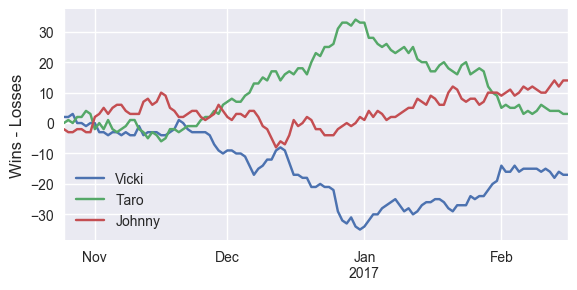
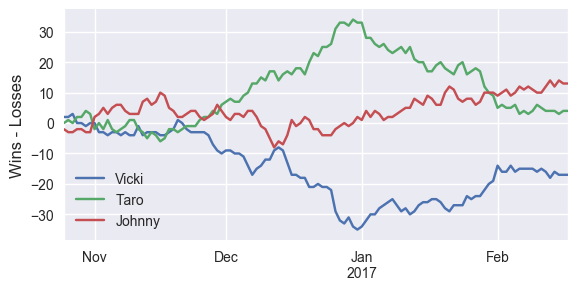
update 2/17

diff --git a/index.html b/index.html
@@ -35,7 +35,7 @@
 <a id="the-bet-is-on" class="anchor" href="#the-bet-is-on" aria-hidden="true"><span aria-hidden="true" class="octicon octicon-link"></span></a>The bet is on.</h1>
 
 <h1>
-<a id="current-winner-of-2016-17-season" class="anchor" href="#current-winner-of-2016-17-season" aria-hidden="true"><span aria-hidden="true" class="octicon octicon-link"></span></a>Current winner of 2016-17 Season (as of 2/16/2017):</h1>
+<a id="current-winner-of-2016-17-season" class="anchor" href="#current-winner-of-2016-17-season" aria-hidden="true"><span aria-hidden="true" class="octicon octicon-link"></span></a>Current winner of 2016-17 Season (as of 2/17/2017):</h1>
 
 <h2>
 <a id="none" class="anchor" href="#none" aria-hidden="true"><span aria-hidden="true" class="octicon octicon-link"></span></a><strong>Johnny</strong>
@@ -45,22 +45,22 @@
 <a id="johnny" class="anchor" href="Johnny.html" aria-hidden="true"><span aria-hidden="true" class="octicon octicon-link"></span>Johnny</a></h2>
 
 <p>Wins: 290<br>
-Losses: 276<br>
-Remaining wins available: 221</p>
+Losses: 277<br>
+Remaining wins available: 220</p>
 
 <h2>
 <a id="taro" class="anchor" href="Taro.html" aria-hidden="true"><span aria-hidden="true" class="octicon octicon-link"></span>Taro</a></h2>
 
-<p>Wins: 284<br>
+<p>Wins: 285<br>
 Losses: 281<br>
-Remaining wins available: 221</p>
+Remaining wins available: 220</p>
 
 <h2>
 <a id="vicki" class="anchor" href="Vicki.html" aria-hidden="true"><span aria-hidden="true" class="octicon octicon-link"></span>Vicki</a></h2>
 
-<p>Wins: 273<br>
-Losses: 290<br>
-Remaining wins available: 219</p>
+<p>Wins: 274<br>
+Losses: 291<br>
+Remaining wins available: 217</p>
 
 <img src='pythoncode/win_percent.png' alt='Winning Percentage Over Time'>
 <h1>

diff --git a/Vicki.html b/Vicki.html
@@ -35,9 +35,9 @@
 
 <h2>Vicki</h2>
 
-<p>Wins: 273<br>
-Losses: 290<br>
-Remaining wins available: 219</p>
+<p>Wins: 274<br>
+Losses: 291<br>
+Remaining wins available: 217</p>
 
 <h2> Current teams </h2>
 <table border="1">
@@ -73,9 +73,9 @@ Remaining wins available: 219</p>
 </tr>
 <tr>
 <td>Bulls</td>
-<td>27</td>
+<td>28</td>
 <td>29</td>
-<td>26</td>
+<td>25</td>
 </tr>
 <tr>
 <td>76ers</td>
@@ -104,8 +104,8 @@ Remaining wins available: 219</p>
 <tr>
 <td>Pacers</td>
 <td>29</td>
-<td>27</td>
-<td>26</td>
+<td>28</td>
+<td>25</td>
 </tr>
 </table>
 

diff --git a/Taro.html b/Taro.html
@@ -35,9 +35,9 @@
 
 <h2>Taro</h2>
 
-<p>Wins: 284<br>
+<p>Wins: 285<br>
 Losses: 281<br>
-Remaining wins available: 221</p>
+Remaining wins available: 220</p>
 
 <h2> Current teams </h2>
 <table border="1">
@@ -91,9 +91,9 @@ Remaining wins available: 221</p>
 </tr>
 <tr>
 <td>Wizards</td>
-<td>33</td>
+<td>34</td>
 <td>21</td>
-<td>28</td>
+<td>27</td>
 </tr>
 <tr>
 <td>Kings</td>

diff --git a/Johnny.html b/Johnny.html
@@ -36,8 +36,8 @@
 <h2>Johnny</h2>
 
 <p>Wins: 290<br>
-Losses: 276<br>
-Remaining wins available: 221</p>
+Losses: 277<br>
+Remaining wins available: 220</p>
 
 <h2> Current teams </h2>
 <table border="1">
@@ -74,8 +74,8 @@ Remaining wins available: 221</p>
 <tr>
 <td>Celtics</td>
 <td>37</td>
-<td>19</td>
-<td>26</td>
+<td>20</td>
+<td>25</td>
 </tr>
 <tr>
 <td>Pistons</td>
